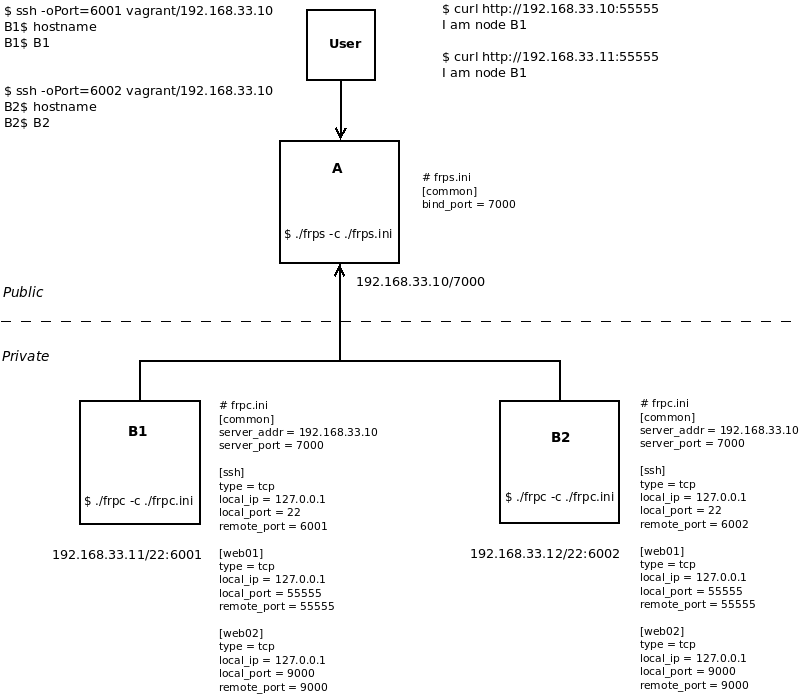
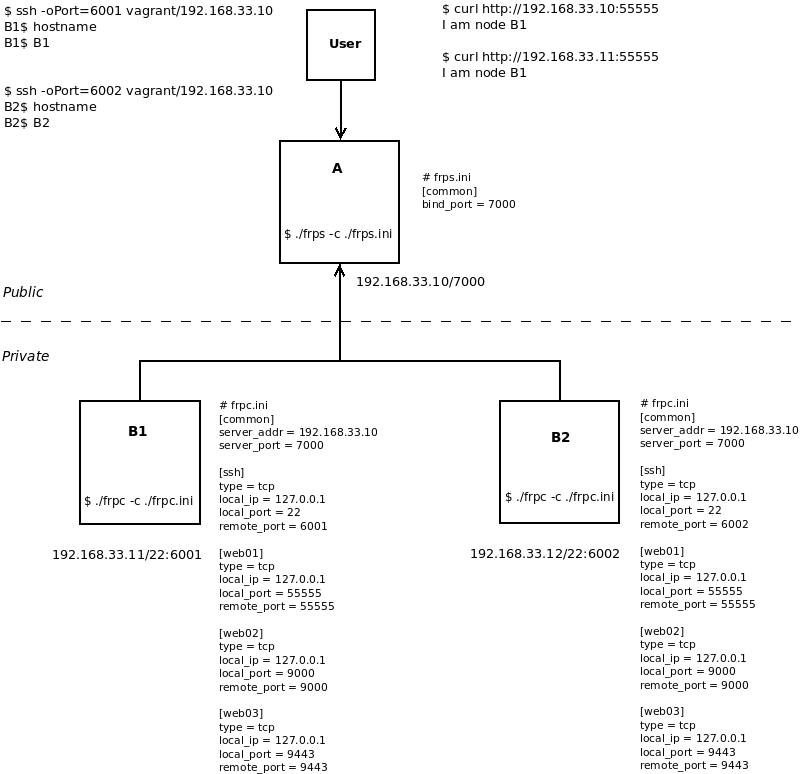
Updated portainer example

diff --git a/README.md b/README.md
@@ -23,6 +23,6 @@ To do this, please follow:
 - Also, you can run a web service from B1 (or B2), for example to run a simple web server: `vagrant@B1:~$ docker compose -f /vagrant/docker-compose.yaml up -d`
 - From your machine you can access this server (running in B1) from A: `$ curl http://192.168.33.10:55555`
 - Alternatively, you could run `portainer` on B1 (or B2): `vagrant@B1:~$ docker run -d -p 8000:8000 -p 9443:9443 -p 9000:9000 --name portainer --restart=always -v /var/run/docker.sock:/var/run/docker.sock -v portainer_data:/data portainer/portainer-ce:latest --http-enabled`
-- From a browser at your machine, you can access `portainer` using A address: `http://192.168.33.10:9000`
+- From a browser at your machine, you can access `portainer` using A address: `http://192.168.33.10:9000` or `https://192.168.33.10:9443`
 - To stop the demo and remove the VMs, run: `$ vagrant destroy -f`
 
